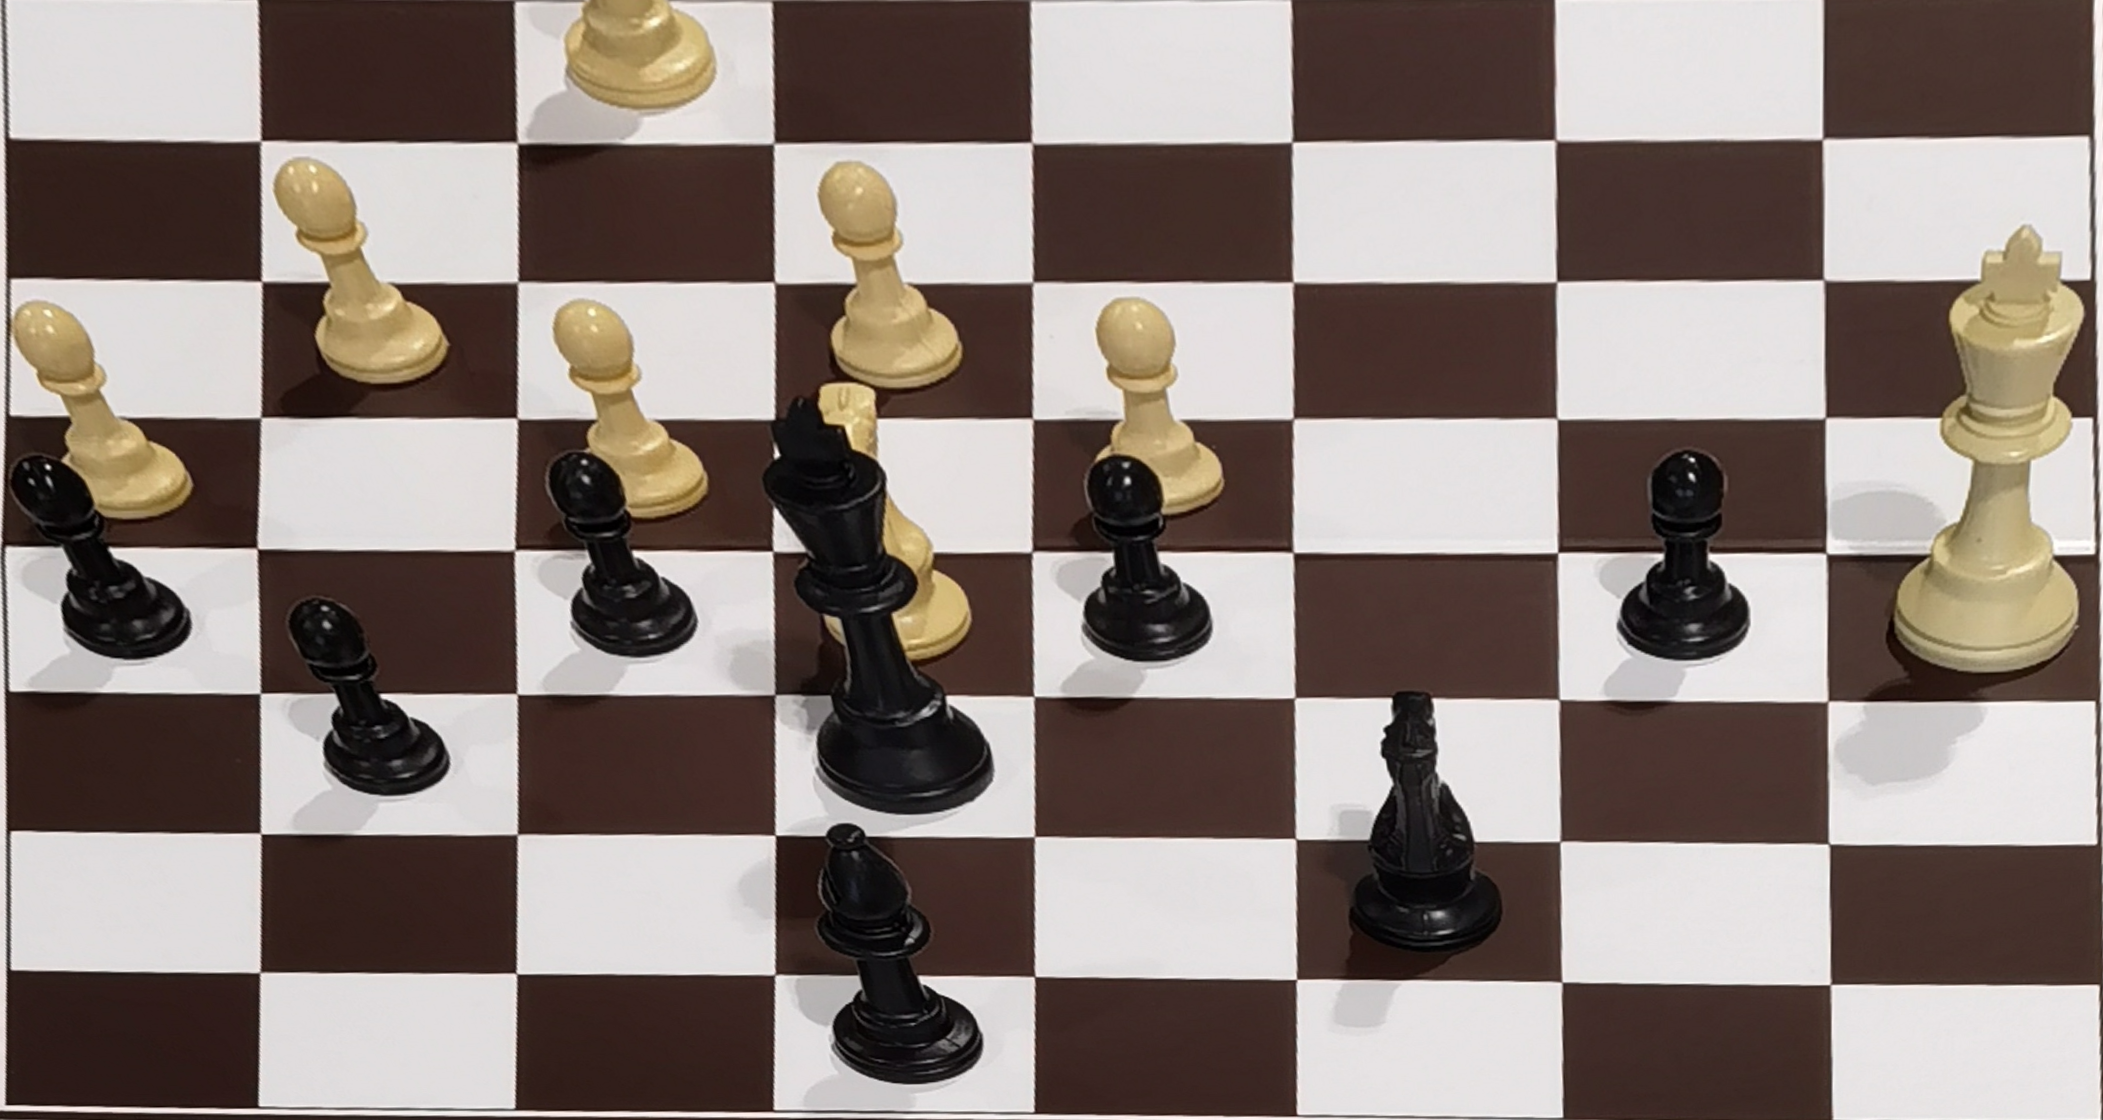
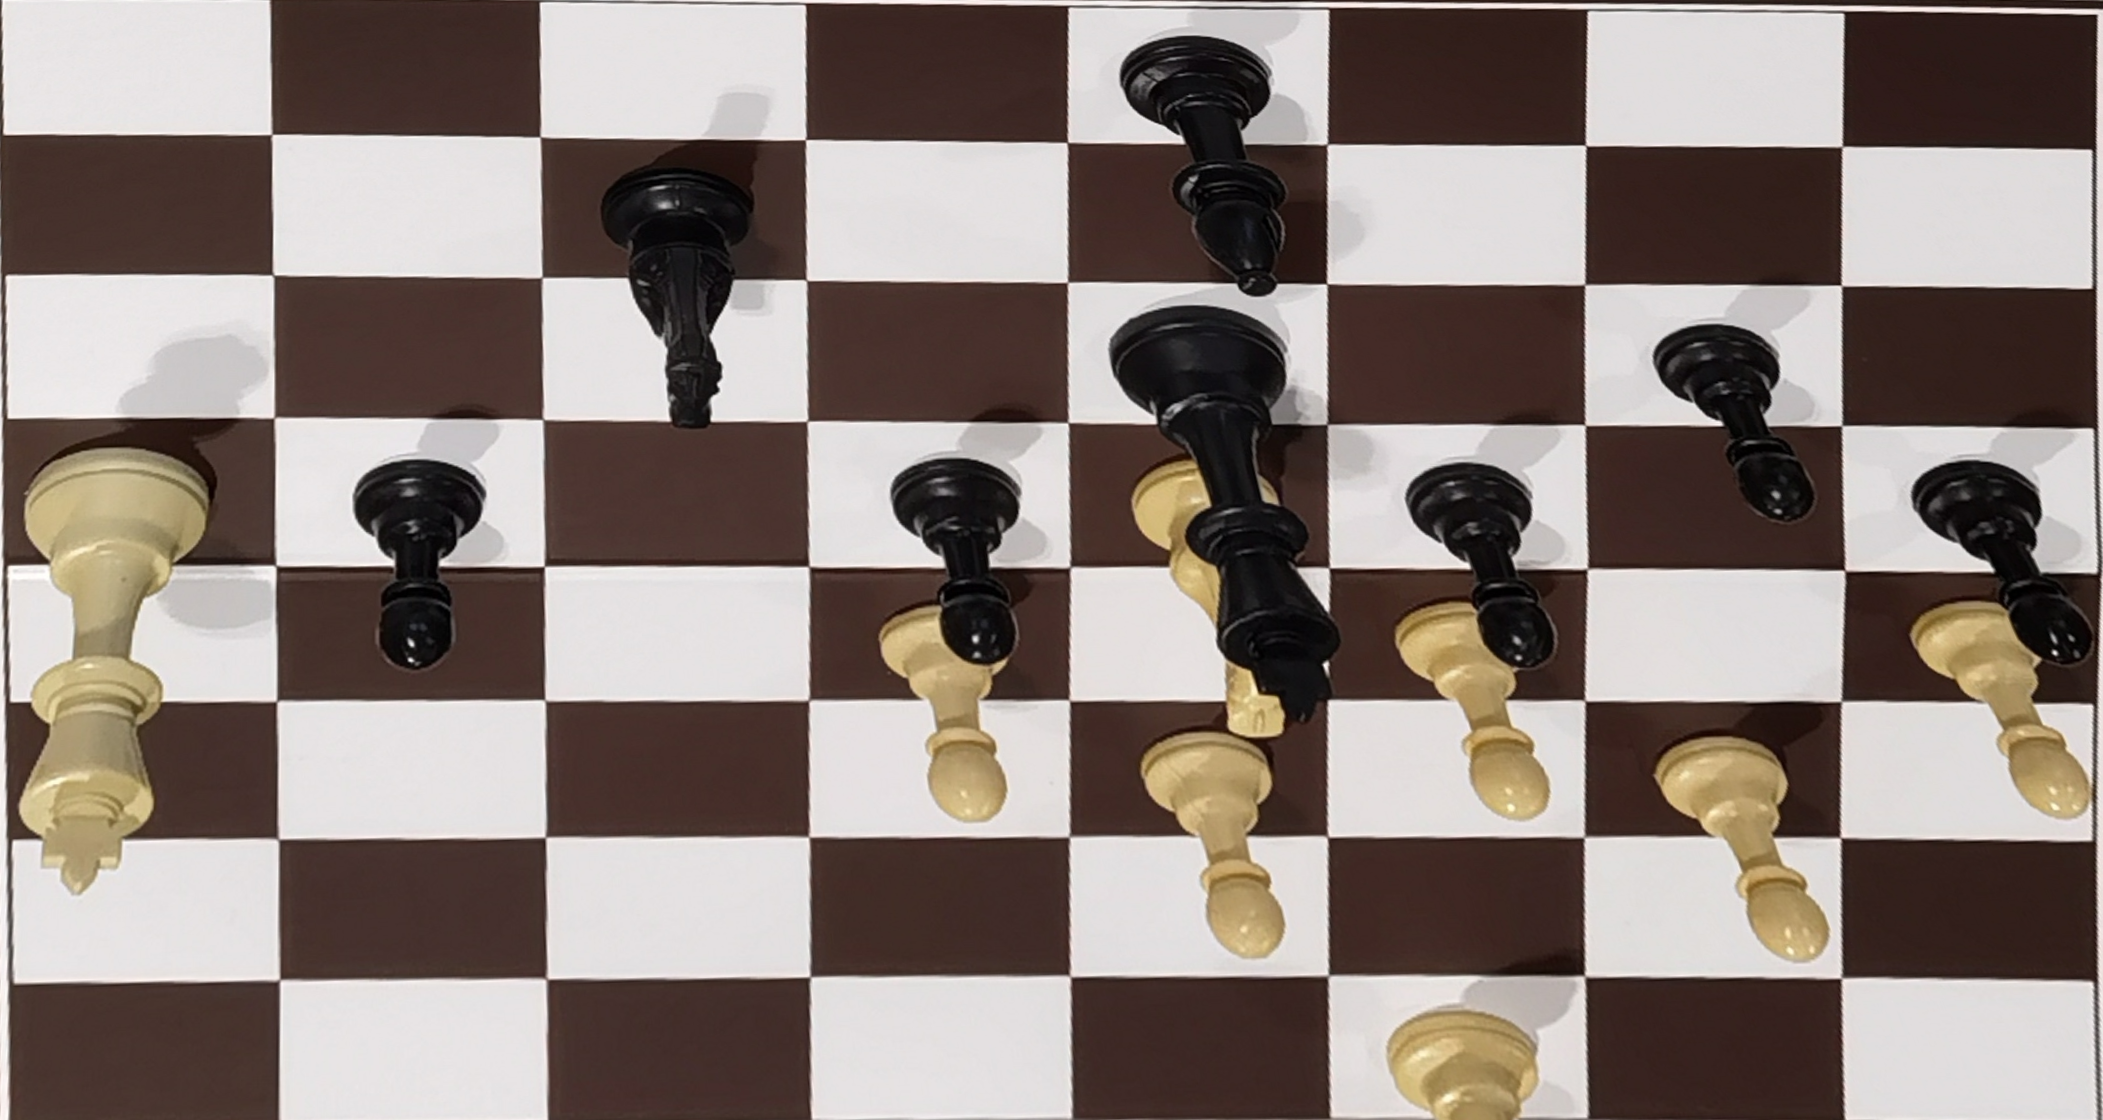
correct number of corners and row numbers

diff --git a/detect.py b/detect.py
@@ -3,6 +3,7 @@ import cv2
 import os
 import numpy as np
 import math
+import torch
 model = YOLO(r"runs\detect\train\weights\best.pt")
 def create_file_path(img_num, folder_num):
     if img_num<10:
@@ -30,15 +31,25 @@ def mid_point_of_boxes(coords):
 
 
 def detect_corners_and_orientation(path_to_img):
-    results = model.predict(source=path_to_img, conf=0.2, iou = 0.0, agnostic_nms = False)
+    results = model.predict(source=path_to_img, conf = 0, iou = 0.0, agnostic_nms = False)
     r = results[0]
     boxes = r.boxes
-    class_ids = boxes.cls.cpu().numpy()
-    coords = boxes.xyxy.cpu().numpy()
+    # Sorting the values of the boxes by confidence using torch
+    conf_vals = boxes.conf.view(-1)
+    order = torch.argsort(conf_vals, descending = True)
+    boxes_sorted = boxes[order]
+    class_ids = boxes_sorted.cls.cpu().numpy()
+    coords = boxes_sorted.xyxy.cpu().numpy()
     # get the boxes coordinates of the corners, the 1s and the 8s rows
     corners_coords = coords[class_ids == 0]
     eights_coords = coords[class_ids == 1]
     ones_coords = coords[class_ids == 2]
+    if len(corners_coords) >= 4:
+        corners_coords = corners_coords[:4]
+    if len(eights_coords) >= 2:
+        eights_coords = eights_coords[:2]
+    if len(ones_coords) >= 2:
+        ones_coords = ones_coords[:2]
     # get the coordinates of the middle point of the boxes
     corners_coords = mid_point_of_boxes(corners_coords)
     ones_coords = mid_point_of_boxes(ones_coords)
@@ -71,8 +82,7 @@ def order_corners_clockwise(corners):
 
 def order_corners(corners, ones, eights):
     # This method fixes the top row to be the 8th row
-    if(len(corners)>=4):
-        corners = corners[:4]
+    if(len(corners) == 4):
         corners = order_corners_clockwise(corners)
         if(len(eights) == 2):
             tl_ind = closest_corner(corners, eights[0])
@@ -184,4 +194,4 @@ def save_cropped_files(folder_num):
             saved_img_path = os.path.join(save_dir, f"{i}.png")
             cv2.imwrite(saved_img_path, warped)
             
-detect_and_crop(0, 0)
+save_cropped_files(1)
